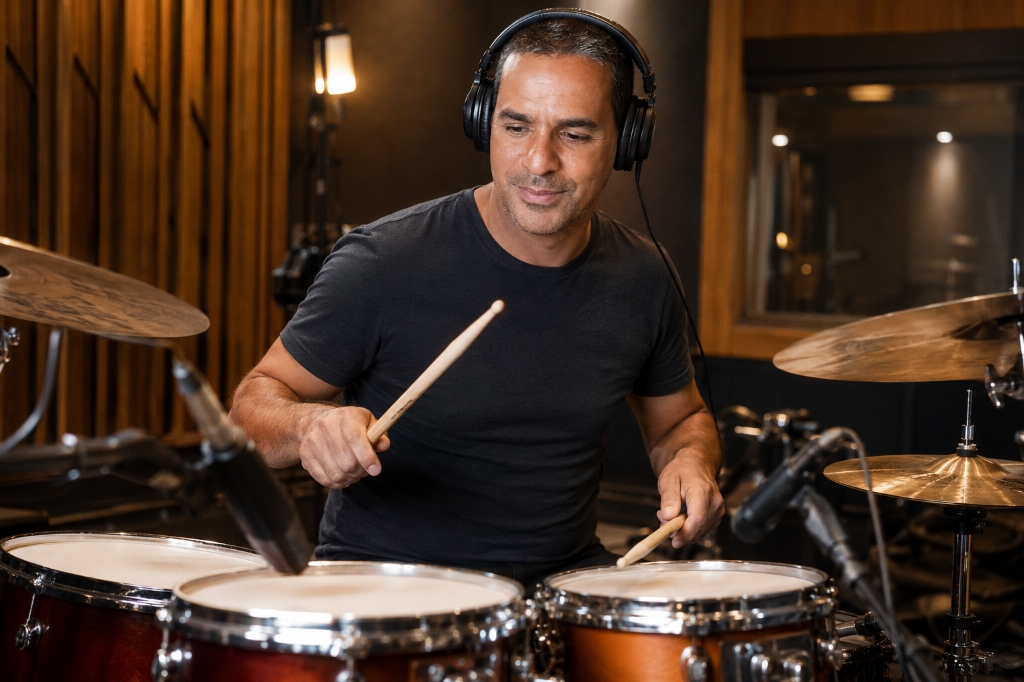
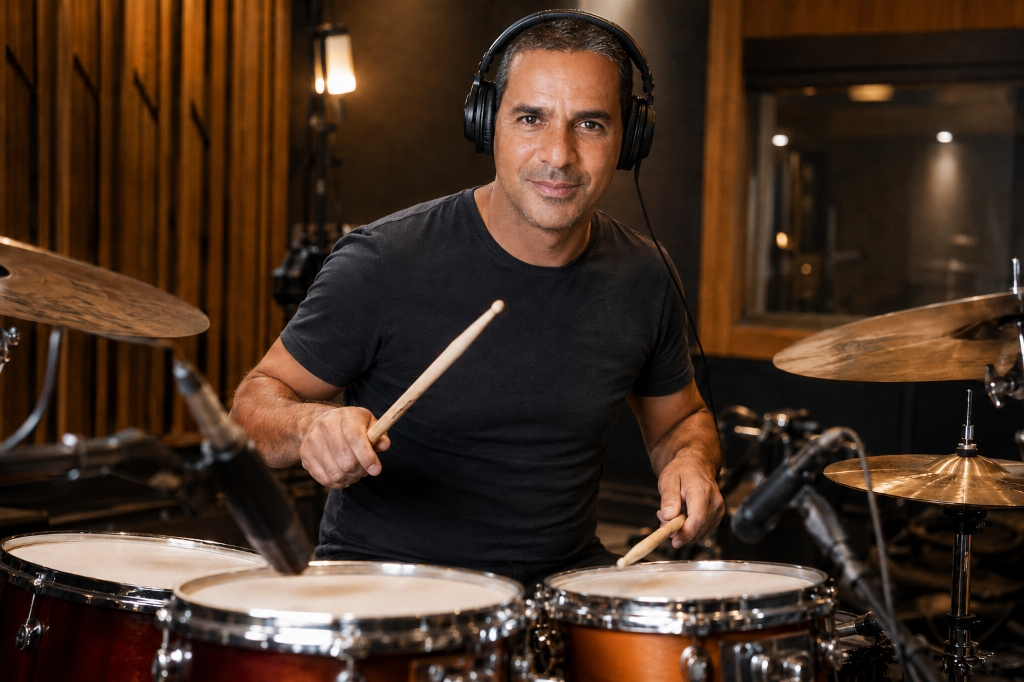
feat: atualiza texto do cta para 'QUERO AGENDAR UMA AULA', nova foto da hero e amplia elementos

diff --git a/assets/css/style.css b/assets/css/style.css
@@ -335,8 +335,8 @@ button {
 
 .hero-section {
   position: relative;
-  padding-top: calc(var(--header-height) + 1.8rem);
-  padding-bottom: 4rem;
+  padding-top: calc(var(--header-height) + 2.4rem);
+  padding-bottom: 5.5rem;
   overflow: hidden;
   text-align: center;
 }
@@ -346,16 +346,16 @@ button {
   top: 10%;
   left: 50%;
   transform: translateX(-50%);
-  width: 700px;
-  height: 550px;
-  background: radial-gradient(circle, rgba(245, 158, 11, 0.22) 0%, rgba(255, 152, 0, 0.06) 50%, transparent 75%);
-  filter: blur(80px);
+  width: 800px;
+  height: 650px;
+  background: radial-gradient(circle, rgba(245, 158, 11, 0.25) 0%, rgba(255, 152, 0, 0.07) 50%, transparent 75%);
+  filter: blur(90px);
   pointer-events: none;
   z-index: 0;
 }
 
 .hero-container-box {
-  max-width: 680px;
+  max-width: 760px;
   margin: 0 auto;
   display: flex;
   flex-direction: column;
@@ -365,29 +365,29 @@ button {
 }
 
 .hero-header-block {
-  margin-bottom: 0.6rem;
+  margin-bottom: 1rem;
   text-align: center;
 }
 
 .hero-tagline {
   display: block;
   font-family: var(--font-heading);
-  font-size: 0.88rem;
+  font-size: 0.95rem;
   font-weight: 800;
-  letter-spacing: 3px;
+  letter-spacing: 3.5px;
   color: var(--gold-500);
   text-transform: uppercase;
-  margin-bottom: 0.6rem;
+  margin-bottom: 0.8rem;
 }
 
 .hero-title {
   font-family: var(--font-display);
-  font-size: clamp(2.6rem, 7vw, 4.4rem);
-  line-height: 1.05;
+  font-size: clamp(3.2rem, 8.5vw, 5.2rem);
+  line-height: 1.04;
   letter-spacing: 1.5px;
   text-transform: uppercase;
   color: #ffffff;
-  margin-bottom: 0.8rem;
+  margin-bottom: 1.1rem;
 }
 
 .hero-title .highlight {
@@ -399,10 +399,10 @@ button {
 }
 
 .hero-description {
-  font-size: 1.15rem;
+  font-size: 1.25rem;
   color: var(--text-secondary);
-  line-height: 1.5;
-  max-width: 520px;
+  line-height: 1.55;
+  max-width: 580px;
   margin: 0 auto;
 }
 
@@ -415,8 +415,8 @@ button {
 .hero-faded-image-wrap {
   position: relative;
   width: 100%;
-  max-width: 520px;
-  margin: 0.8rem auto 1.5rem auto;
+  max-width: 620px;
+  margin: 1.5rem auto 2.5rem auto;
   display: flex;
   justify-content: center;
   align-items: center;
@@ -427,22 +427,22 @@ button {
   top: 50%;
   left: 50%;
   transform: translate(-50%, -50%);
-  width: 90%;
-  height: 90%;
-  background: radial-gradient(circle, rgba(245, 158, 11, 0.28) 0%, rgba(255, 152, 0, 0.08) 50%, transparent 75%);
-  filter: blur(40px);
+  width: 95%;
+  height: 95%;
+  background: radial-gradient(circle, rgba(245, 158, 11, 0.32) 0%, rgba(255, 152, 0, 0.1) 50%, transparent 75%);
+  filter: blur(50px);
   z-index: 0;
   pointer-events: none;
 }
 
 .hero-faded-img {
   width: 100%;
-  max-height: 380px;
+  max-height: 460px;
   object-fit: cover;
   object-position: center 20%;
   position: relative;
   z-index: 1;
-  border-radius: 20px;
+  border-radius: 24px;
   /* Efeito de esmaecimento suave nas bordas */
   -webkit-mask-image: radial-gradient(ellipse 80% 80% at 50% 50%, black 45%, transparent 95%);
   mask-image: radial-gradient(ellipse 80% 80% at 50% 50%, black 45%, transparent 95%);
@@ -461,7 +461,7 @@ button {
   bottom: 0;
   z-index: 2;
   pointer-events: none;
-  border-radius: 20px;
+  border-radius: 24px;
   background: radial-gradient(ellipse at center, transparent 40%, rgba(9, 9, 12, 0.3) 70%, rgba(9, 9, 12, 0.95) 100%),
               linear-gradient(180deg, transparent 65%, rgba(9, 9, 12, 0.9) 100%);
 }
@@ -469,12 +469,12 @@ button {
 /* CTA Principal com Efeito Pulsante */
 .hero-cta-block {
   width: 100%;
-  max-width: 440px;
+  max-width: 480px;
   margin: 0 auto;
   display: flex;
   flex-direction: column;
   align-items: center;
-  gap: 0.65rem;
+  gap: 0.8rem;
   position: relative;
   z-index: 3;
 }
@@ -483,16 +483,16 @@ button {
   display: inline-flex;
   align-items: center;
   justify-content: center;
-  gap: 0.85rem;
+  gap: 0.95rem;
   background: linear-gradient(135deg, #25d366 0%, #1ebd5a 100%);
   color: #ffffff;
   font-weight: 800;
-  font-size: 1.15rem;
+  font-size: 1.25rem;
   text-transform: uppercase;
   letter-spacing: 0.5px;
-  padding: 1.15rem 2.4rem;
-  border-radius: 14px;
-  box-shadow: 0 10px 25px rgba(37, 211, 102, 0.4), inset 0 1px 0 rgba(255, 255, 255, 0.3);
+  padding: 1.35rem 2.8rem;
+  border-radius: 16px;
+  box-shadow: 0 12px 30px rgba(37, 211, 102, 0.45), inset 0 1px 0 rgba(255, 255, 255, 0.35);
   position: relative;
   overflow: hidden;
   width: 100%;
@@ -519,23 +519,23 @@ button {
 
 .btn-cta-primary:hover {
   transform: translateY(-3px) scale(1.02);
-  box-shadow: 0 15px 35px rgba(37, 211, 102, 0.55);
+  box-shadow: 0 18px 40px rgba(37, 211, 102, 0.6);
 }
 
 .btn-cta-primary svg {
-  width: 24px;
-  height: 24px;
+  width: 26px;
+  height: 26px;
   fill: currentColor;
   flex-shrink: 0;
 }
 
 .cta-subtext {
-  font-size: 0.88rem;
+  font-size: 0.95rem;
   color: var(--text-muted);
   display: flex;
   align-items: center;
   justify-content: center;
-  gap: 0.6rem;
+  gap: 0.7rem;
   font-weight: 500;
 }
 
@@ -1976,60 +1976,60 @@ button {
   }
 
   /* ==========================================================================
-     HERO MOBILE (LAYOUT FIEL AO MODELO ACIMA DA DOBRA)
+     HERO MOBILE (AMPLIADO COM BOTÃO MAIS ABAIXO NA PÁGINA)
      ========================================================================== */
   .hero-section {
     min-height: auto;
-    padding-top: calc(var(--header-height) + 0.6rem);
-    padding-bottom: 2rem;
+    padding-top: calc(var(--header-height) + 1.2rem);
+    padding-bottom: 3.5rem;
   }
 
   .hero-header-block {
-    margin-bottom: 0.4rem;
+    margin-bottom: 0.75rem;
   }
 
   .hero-tagline {
-    font-size: 0.72rem;
-    letter-spacing: 2.2px;
-    margin-bottom: 0.35rem;
+    font-size: 0.82rem;
+    letter-spacing: 2.8px;
+    margin-bottom: 0.5rem;
   }
 
   .hero-title {
-    font-size: clamp(2rem, 7.6vw, 2.7rem);
-    line-height: 1.06;
-    margin-bottom: 0.45rem;
+    font-size: clamp(2.4rem, 8.5vw, 3.4rem);
+    line-height: 1.05;
+    margin-bottom: 0.7rem;
   }
 
   .hero-description {
-    font-size: 0.88rem;
-    line-height: 1.38;
-    max-width: 320px;
+    font-size: 1rem;
+    line-height: 1.48;
+    max-width: 360px;
     margin: 0 auto;
   }
 
   .hero-faded-image-wrap {
-    max-width: 360px;
-    margin: 0.5rem auto 1rem auto;
+    max-width: 440px;
+    margin: 1.2rem auto 1.8rem auto;
   }
 
   .hero-faded-img {
-    max-height: 250px;
+    max-height: 330px;
   }
 
   .hero-cta-block {
-    max-width: 360px;
-    gap: 0.45rem;
+    max-width: 400px;
+    gap: 0.65rem;
   }
 
   .btn-cta-primary {
-    font-size: 0.95rem;
-    padding: 0.9rem 1.4rem;
-    border-radius: 12px;
+    font-size: 1.08rem;
+    padding: 1.15rem 1.8rem;
+    border-radius: 14px;
   }
 
   .cta-subtext {
-    font-size: 0.78rem;
-    gap: 0.4rem;
+    font-size: 0.85rem;
+    gap: 0.5rem;
   }
 
   /* Outras seções no Mobile */

diff --git a/index.html b/index.html
@@ -118,7 +118,7 @@
           <svg viewBox="0 0 24 24">
             <path d="M.057 24l1.687-6.163c-1.041-1.804-1.588-3.849-1.587-5.946.003-6.556 5.338-11.891 11.893-11.891 3.181.001 6.167 1.24 8.413 3.488 2.245 2.248 3.481 5.236 3.48 8.414-.003 6.557-5.338 11.892-11.893 11.892-1.99-.001-3.951-.5-5.688-1.448l-6.305 1.654zm6.597-3.807c1.676.995 3.276 1.591 5.392 1.592 5.448 0 9.886-4.434 9.889-9.885.002-5.462-4.415-9.89-9.881-9.892-5.452 0-9.887 4.434-9.889 9.884-.001 2.225.651 3.891 1.746 5.634l-.999 3.648 3.742-.981zm11.387-5.464c-.074-.124-.272-.198-.57-.347-.297-.149-1.758-.868-2.031-.967-.272-.099-.47-.149-.669.149-.198.297-.768.967-.941 1.165-.173.198-.347.223-.644.074-.297-.149-1.255-.462-2.39-1.475-.883-.788-1.48-1.761-1.653-2.059-.173-.297-.018-.458.13-.606.134-.133.297-.347.446-.521.151-.172.2-.296.3-.495.099-.198.05-.372-.025-.521-.075-.148-.669-1.611-.916-2.206-.242-.579-.487-.501-.669-.51l-.57-.01c-.198 0-.52.074-.792.372s-1.04 1.016-1.04 2.479 1.065 2.876 1.213 3.074c.149.198 2.095 3.2 5.076 4.487.709.306 1.263.489 1.694.626.712.226 1.36.194 1.872.118.571-.085 1.758-.719 2.006-1.413.248-.695.248-1.29.173-1.414z"/>
           </svg>
-          <span>Quero começar pelo WhatsApp</span>
+          <span>Quero agendar uma aula</span>
         </a>
         <p class="cta-subtext">
           <span>Horários flexíveis</span> • <span>Fale direto com o professor</span>
